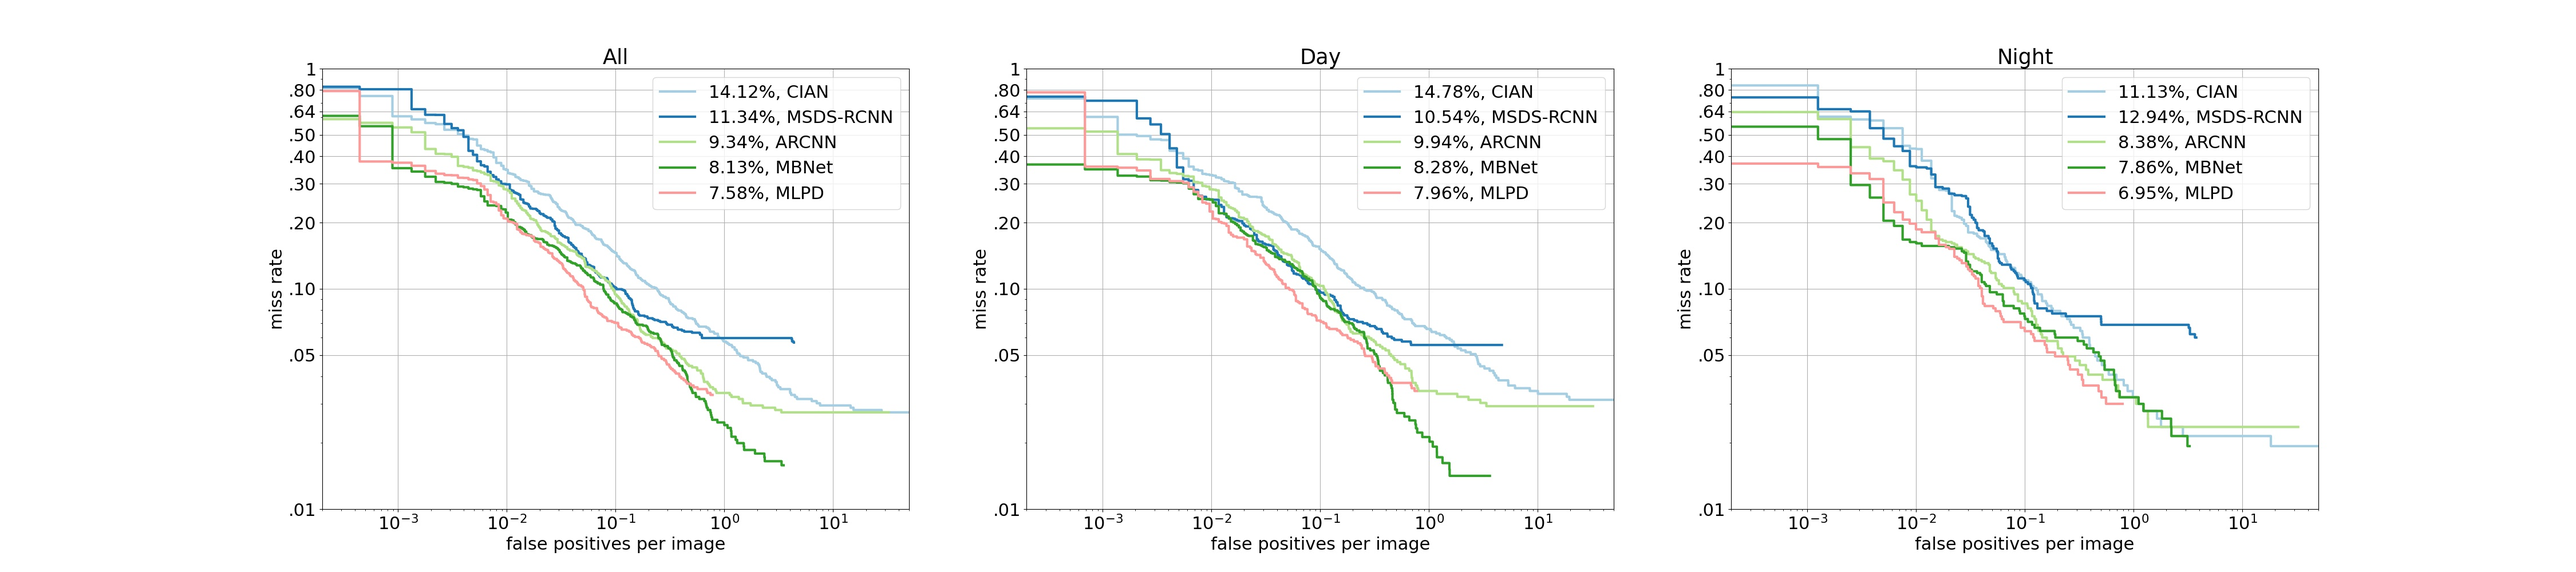
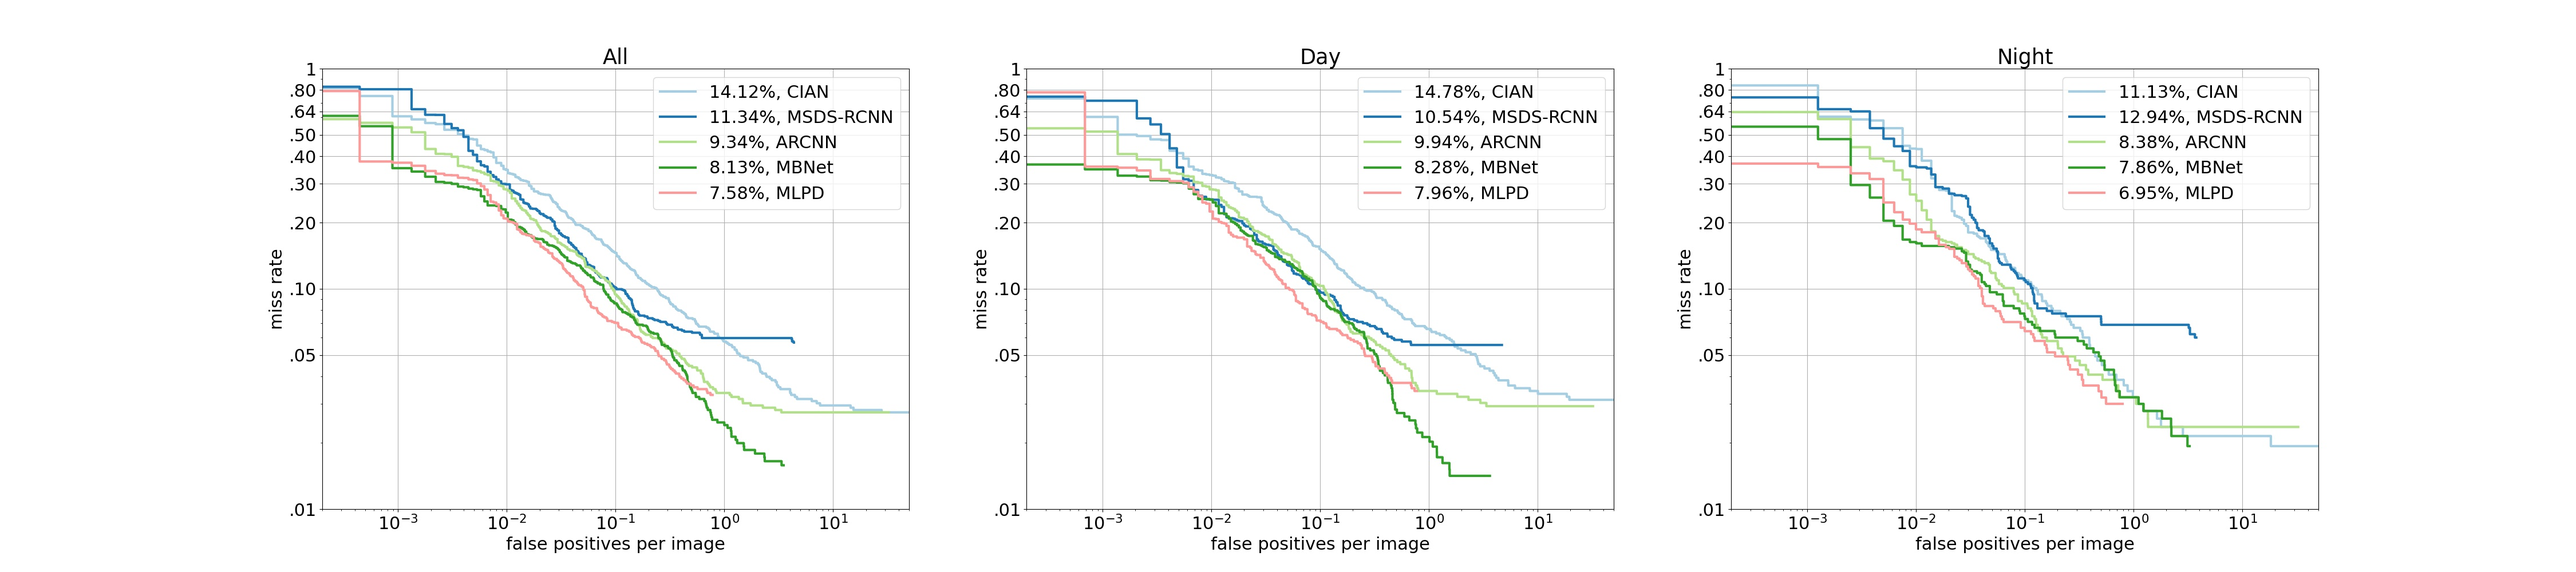
update

diff --git a/evaluation_script/evaluation_script.py b/evaluation_script/evaluation_script.py
@@ -531,8 +531,10 @@ class KAIST(COCO):
                 json.dump(anns, f, indent=4)
             res = super().loadRes(_resFile)
             os.remove(_resFile)
-        else:
+        elif type(resFile) == str and resFile.endswith('.json'):
             res = super().loadRes(resFile)
+        else:
+            raise Exception('[Error] Exception extension : %s \n' % resFile.split('.')[-1]) 
 
         return res
 
@@ -597,7 +599,7 @@ def evaluate(test_annotation_file: str, user_submission_file: str, phase_codenam
 
 
 def draw_all(eval_results, filename='figure.jpg'):
-    """Draw all results in a single figure
+    """Draw all results in a single figure as Miss rate versus false positive per-image (FPPI) curve
 
     Parameters
     ----------
@@ -634,6 +636,8 @@ if __name__ == "__main__":
                         help='Please put the path of the annotation file. Only support json format.')
     parser.add_argument('--rstFiles', type=str, nargs='+', default=['evaluation_script/MLPD_result.json'],
                         help='Please put the path of the result file. Only support json, txt format.')
+    parser.add_argument('--evalFigure', type=str, nargs='+', default='figure.jpg',
+                        help='Please put the output path of the Miss rate versus false positive per-image (FPPI) curve')
     args = parser.parse_args()
 
     phase = "Multispectral"
@@ -641,4 +645,4 @@ if __name__ == "__main__":
 
     # Sort results by MR_all
     results = sorted(results, key=lambda x: x['all'].summarize(0), reverse=True)
-    draw_all(results)
+    draw_all(results, filename=args.evalFigure)

diff --git a/evaluation_script/ReadMe.md b/evaluation_script/ReadMe.md
@@ -1,18 +1,23 @@
 ## Evalutation_script
 
-You can evaluate the model with the code.
+You can evaluate the result files of the models with code.
+
+We draw all the results of state-of-the-art methods in a single figure to make it easy to compare, and the figure represents the miss-rate against false positives per image.
+
 For annotations file, only json is supported, and for result files, json and txt formats are supported.
 (multiple `--rstFiles` are supported)
 
 Example)
 
 ```bash
-$ python evaluation_script.py \
+$ python evaluation_script/evaluation_script.py \
 	--annFile evaluation_script/KAIST_annotation.json \
 	--rstFile evaluation_script/MLPD_result.txt \
 			  evaluation_script/ARCNN_result.txt \
 			  evaluation_script/CIAN_result.txt \
 			  evaluation_script/MSDS-RCNN_result.txt \
-			  evaluation_script/MBNet_result.txt
+			  evaluation_script/MBNet_result.txt \
+	--evalFigure figure.jpg
 ```
 
+![result img](../figure.jpg)
